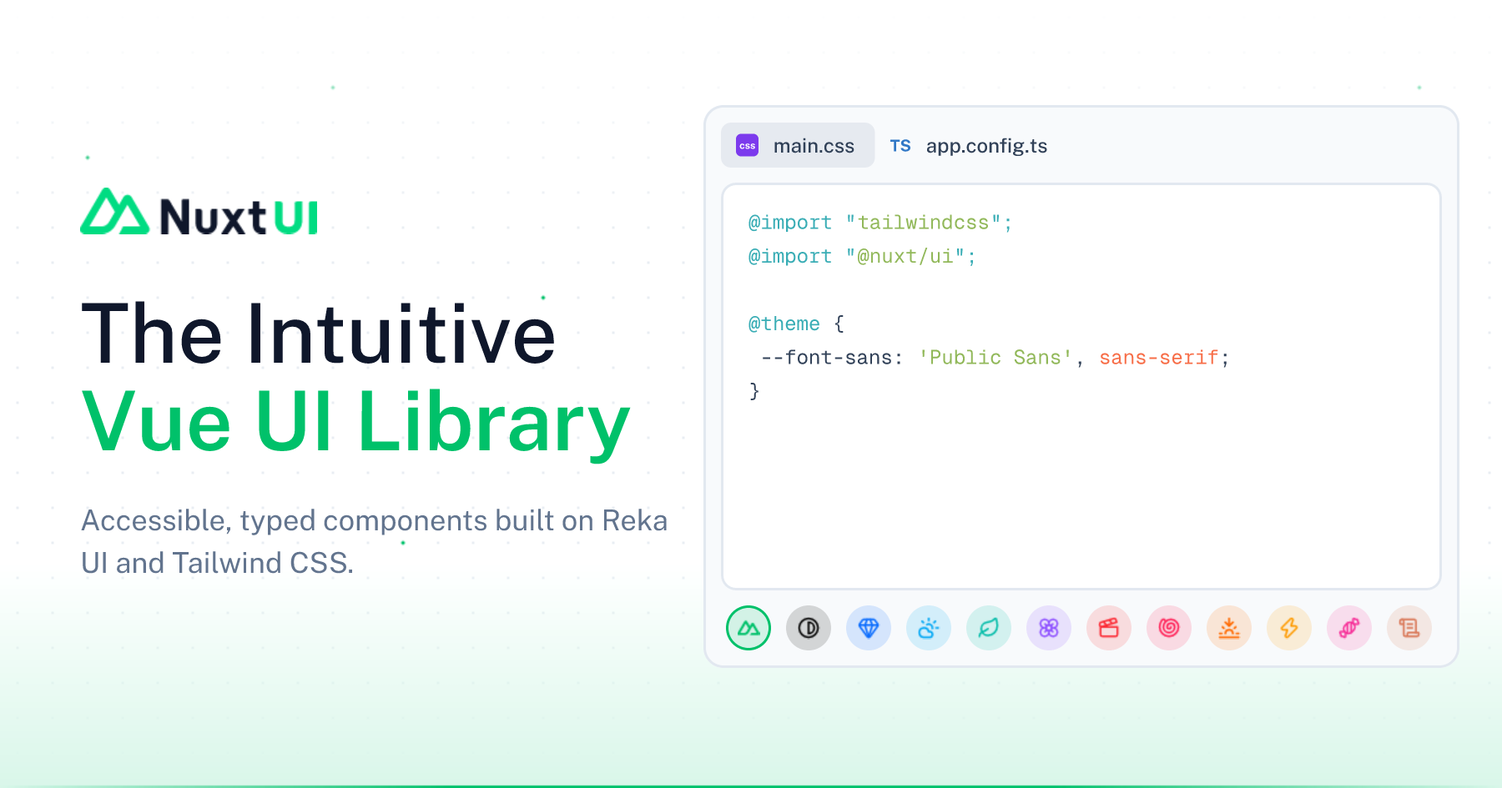
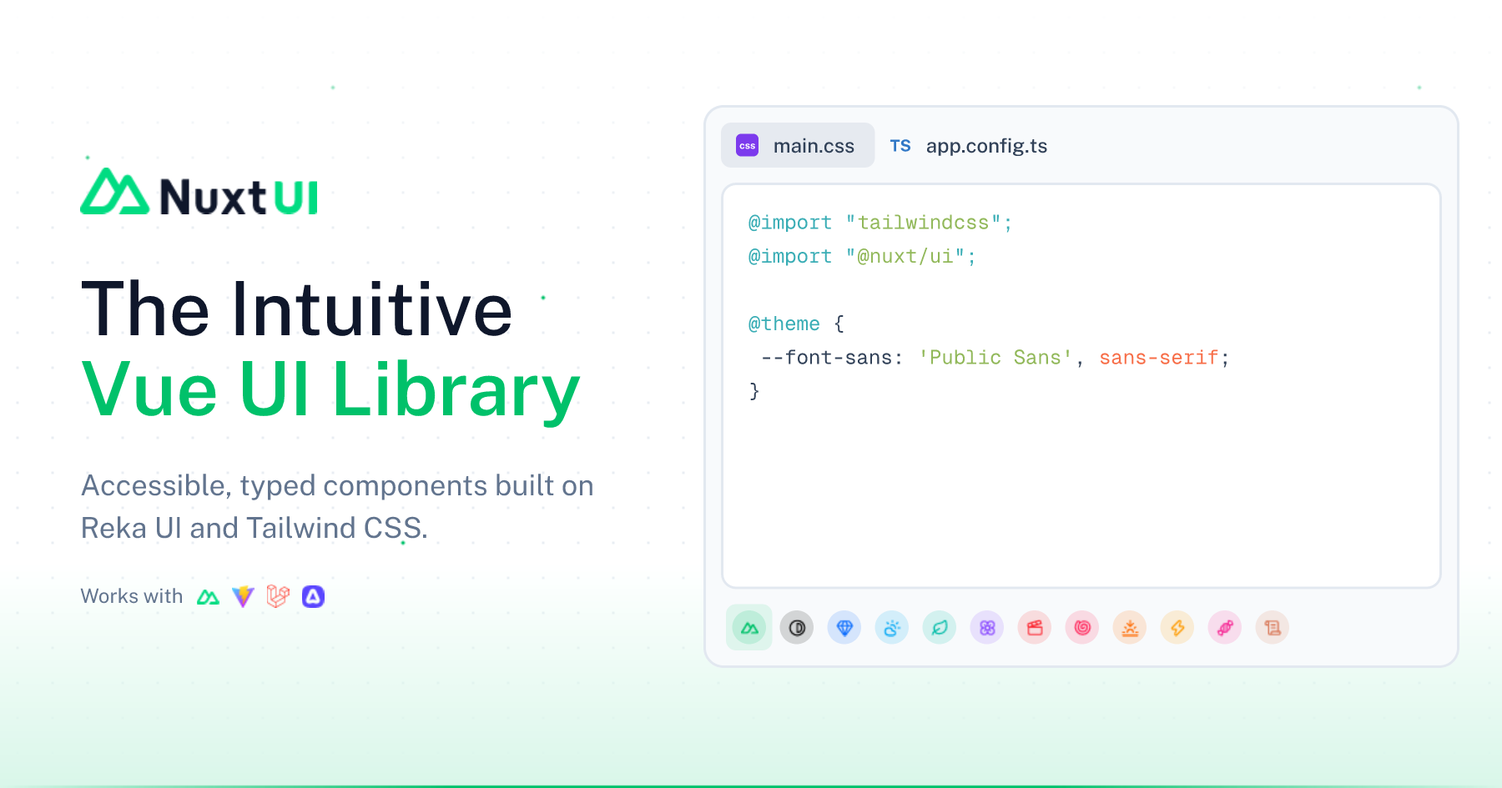
docs(home): add supported frameworks and downloads to og image

Changed region(s): [[0.0311, 0.3376, 0.4667, 0.7672], [0.4667, 0.7672, 0.9644, 0.8286], [0.0311, 0.2148, 0.2178, 0.3069]]

diff --git a/docs/app/components/og-image/Home.takumi.vue b/docs/app/components/og-image/Home.takumi.vue
@@ -11,6 +11,8 @@ const props = withDefaults(defineProps<{
   lead?: string
   accent?: string
   description?: string
+  /** Monthly npm downloads, already formatted. */
+  downloads?: string
   dark?: boolean
 }>(), {
   dark: false
@@ -28,7 +30,9 @@ const PRESETS = {
   dark: { default: '#00DC82', mono: '#ffffff', cobalt: '#3d8bfd', sky: '#00bcff', mint: '#00d5be', iris: '#a684ff', crimson: '#ff6467', coral: '#ff637e', sunset: '#ff8904', carbon: '#ffb900', bubblegum: '#fb64b6', parchment: '#dd9977' }
 }
 const preset = (id: keyof typeof PRESETS.light) => PRESETS[props.dark ? 'dark' : 'light'][id]
-const pill = (id: keyof typeof PRESETS.light) => ({ backgroundColor: `${preset(id)}26`, borderColor: preset(id) })
+const pill = (id: keyof typeof PRESETS.light) => ({ backgroundColor: `${preset(id)}26` })
+// the applied preset sits in the soft primary square its button gets on the landing
+const active = computed(() => ({ backgroundColor: `${c.value.primary}1a` }))
 </script>
 
 <template>
@@ -72,7 +76,7 @@ const pill = (id: keyof typeof PRESETS.light) => ({ backgroundColor: `${preset(i
       <rect y="628" width="1200" height="2" fill="url(#line)" />
     </svg>
 
-    <div class="absolute left-[64px] top-[150px] w-[470px] flex flex-col">
+    <div class="absolute left-[64px] top-[134px] w-[470px] flex flex-col">
       <svg class="w-[189px] h-[37px]" viewBox="0 0 1020 200" fill="none" xmlns="http://www.w3.org/2000/svg">
         <path d="M377 200C379.16 200 381 198.209 381 196V103C381 103 386 112 395 127L434 194C435.785 197.74 439.744 200 443 200H470V50H443C441.202 50 439 51.4941 439 54V148L421 116L385 55C383.248 51.8912 379.479 50 376 50H350V200H377Z" fill="currentColor" />
         <path d="M726 92H739C742.314 92 745 89.3137 745 86V60H773V92H800V116H773V159C773 169.5 778.057 174 787 174H800V200H783C759.948 200 745 185.071 745 160V116H726V92Z" fill="currentColor" />
@@ -82,13 +86,36 @@ const pill = (id: keyof typeof PRESETS.light) => ({ backgroundColor: `${preset(i
         <path d="M958 60.0001H938C933.524 60.0001 929.926 59.9395 927 63C924.074 65.8905 925 67.5792 925 72V141C925 151.372 923.648 156.899 919 162C914.352 166.931 908.468 169 899 169C889.705 169 882.648 166.931 878 162C873.352 156.899 873 151.372 873 141V72.0001C873 67.5793 872.926 65.8906 870 63.0001C867.074 59.9396 863.476 60.0001 859 60.0001H840V141C840 159.023 845.016 173.458 855 184C865.156 194.542 879.893 200 899 200C918.107 200 932.844 194.542 943 184C953.156 173.458 958 159.023 958 141V60.0001Z" fill="#00DC82" />
         <path fill-rule="evenodd" clip-rule="evenodd" d="M1000 60.0233L1020 60V77L1020 128V156.007L1020 181L1020 189.004C1020 192.938 1019.98 194.429 1017 197.001C1014.02 199.725 1009.56 200 1005 200H986.001V181.006L986 130.012V70.0215C986 66.1576 986.016 64.5494 989 62.023C991.819 59.6358 995.437 60.0233 1000 60.0233Z" fill="#00DC82" />
       </svg>
-      <h1 class="flex flex-col text-[66px] leading-[70px] font-medium mt-11 mb-0">
+      <h1 class="flex flex-col text-[60px] leading-[64px] font-medium mt-11 mb-0">
         <span>{{ lead }}</span>
         <span class="font-semibold" :style="{ color: c.primary }">{{ accent }}</span>
       </h1>
-      <p v-if="description" class="text-[23px] leading-[34px] mt-7 mb-0" :style="{ color: c.muted, lineClamp: 3, textOverflow: 'ellipsis' }">
+      <!-- narrower than the column: the first line ends on "on", so "Reka UI"
+           stays whole on the second -->
+      <p v-if="description" class="w-[430px] text-[23px] leading-[34px] mt-7 mb-0" :style="{ color: c.muted, lineClamp: 3, textOverflow: 'ellipsis' }">
         {{ description }}
       </p>
+      <!-- the hero's caption under its links, scaled with the description:
+           the logos in their own colors since the card has no hover to
+           bring them out, a hairline, then the npm downloads -->
+      <div class="flex flex-row items-center mt-7 text-[16px]" :style="{ color: c.muted, gap: '15px' }">
+        <div class="flex flex-row items-center" style="gap: 10px">
+          <span>Works with</span>
+          <div class="flex flex-row items-center" style="gap: 10px">
+            <svg class="w-[18px] h-[12px]" viewBox="0 0 256 168" xmlns="http://www.w3.org/2000/svg"><path fill="#00dc82" d="M143.618 167.029h95.166c3.023 0 5.992-.771 8.61-2.237a16.96 16.96 0 0 0 6.302-6.115a16.3 16.3 0 0 0 2.304-8.352c0-2.932-.799-5.811-2.312-8.35L189.778 34.6a16.97 16.97 0 0 0-6.301-6.113a17.6 17.6 0 0 0-8.608-2.238c-3.023 0-5.991.772-8.609 2.238a16.96 16.96 0 0 0-6.3 6.113l-16.342 27.473l-31.95-53.724a17 17 0 0 0-6.304-6.112A17.64 17.64 0 0 0 96.754 0c-3.022 0-5.992.772-8.61 2.237a17 17 0 0 0-6.303 6.112L2.31 141.975a16.3 16.3 0 0 0-2.31 8.35c0 2.932.793 5.813 2.304 8.352a16.96 16.96 0 0 0 6.302 6.115a17.6 17.6 0 0 0 8.61 2.237h59.737c23.669 0 41.123-10.084 53.134-29.758l29.159-48.983l15.618-26.215l46.874 78.742h-62.492zm-67.64-26.24l-41.688-.01L96.782 35.796l31.181 52.492l-20.877 35.084c-7.976 12.765-17.037 17.416-31.107 17.416" /></svg>
+            <svg class="w-[18px] h-[18px]" viewBox="0 0 256 257" xmlns="http://www.w3.org/2000/svg"><defs><linearGradient id="vite-a" x1="-.828%" x2="57.636%" y1="7.652%" y2="78.411%"><stop offset="0%" stop-color="#41D1FF" /><stop offset="100%" stop-color="#BD34FE" /></linearGradient><linearGradient id="vite-b" x1="43.376%" x2="50.316%" y1="2.242%" y2="89.03%"><stop offset="0%" stop-color="#FFEA83" /><stop offset="8.333%" stop-color="#FFDD35" /><stop offset="100%" stop-color="#FFA800" /></linearGradient></defs><path fill="url(#vite-a)" d="M255.153 37.938L134.897 252.976c-2.483 4.44-8.862 4.466-11.382.048L.875 37.958c-2.746-4.814 1.371-10.646 6.827-9.67l120.385 21.517a6.5 6.5 0 0 0 2.322-.004l117.867-21.483c5.438-.991 9.574 4.796 6.877 9.62" /><path fill="url(#vite-b)" d="M185.432.063L96.44 17.501a3.27 3.27 0 0 0-2.634 3.014l-5.474 92.456a3.268 3.268 0 0 0 3.997 3.378l24.777-5.718c2.318-.535 4.413 1.507 3.936 3.838l-7.361 36.047c-.495 2.426 1.782 4.5 4.151 3.78l15.304-4.649c2.372-.72 4.652 1.36 4.15 3.788l-11.698 56.621c-.732 3.542 3.979 5.473 5.943 2.437l1.313-2.028l72.516-144.72c1.215-2.423-.88-5.186-3.54-4.672l-25.505 4.922c-2.396.462-4.435-1.77-3.759-4.114l16.646-57.705c.677-2.35-1.37-4.583-3.769-4.113" /></svg>
+            <svg class="w-[18px] h-[19px]" viewBox="0 0 256 264" xmlns="http://www.w3.org/2000/svg"><path fill="#ff2d20" d="M255.856 59.62c.095.351.144.713.144 1.077v56.568c0 1.478-.79 2.843-2.073 3.578L206.45 148.18v54.18a4.14 4.14 0 0 1-2.062 3.579l-99.108 57.053c-.227.128-.474.21-.722.299c-.093.03-.18.087-.278.113a4.15 4.15 0 0 1-2.114 0c-.114-.03-.217-.093-.325-.134c-.227-.083-.464-.155-.68-.278L2.073 205.938A4.13 4.13 0 0 1 0 202.36V32.656c0-.372.052-.733.144-1.083c.031-.119.103-.227.145-.346c.077-.216.15-.438.263-.639c.077-.134.19-.242.283-.366c.119-.165.227-.335.366-.48c.119-.118.274-.206.408-.309c.15-.124.283-.258.453-.356h.005L51.613.551a4.14 4.14 0 0 1 4.125 0l49.546 28.526h.01c.165.104.305.232.454.351c.134.103.284.196.402.31c.145.149.248.32.371.484c.088.124.207.232.279.366c.118.206.185.423.268.64c.041.118.113.226.144.35c.095.351.144.714.145 1.078V138.65l41.286-23.773V60.692c0-.36.052-.727.145-1.072c.036-.124.103-.232.144-.35c.083-.217.155-.44.268-.64c.077-.134.19-.242.279-.366c.123-.165.226-.335.37-.48c.12-.118.269-.206.403-.309c.155-.124.289-.258.454-.356h.005l49.551-28.526a4.13 4.13 0 0 1 4.125 0l49.546 28.526c.175.103.309.232.464.35c.128.104.278.197.397.31c.144.15.247.32.37.485c.094.124.207.232.28.366c.118.2.185.423.267.64c.047.118.114.226.145.35m-8.115 55.258v-47.04l-17.339 9.981l-23.953 13.792v47.04l41.297-23.773zm-49.546 85.095V152.9l-23.562 13.457l-67.281 38.4v47.514zM8.259 39.796v160.177l90.833 52.294v-47.505L51.64 177.906l-.015-.01l-.02-.01c-.16-.093-.295-.227-.444-.34c-.13-.104-.279-.186-.392-.3l-.01-.015c-.134-.129-.227-.289-.34-.433c-.104-.14-.227-.258-.31-.402l-.005-.016c-.093-.154-.15-.34-.217-.515c-.067-.155-.154-.3-.196-.464v-.005c-.051-.196-.061-.403-.082-.604c-.02-.154-.062-.309-.062-.464V63.57L25.598 49.772l-17.339-9.97zM53.681 8.893L12.399 32.656l41.272 23.762L94.947 32.65L53.671 8.893zm21.468 148.298l23.948-13.786V39.796L81.76 49.778L57.805 63.569v103.608zM202.324 36.935l-41.276 23.762l41.276 23.763l41.271-23.768zm-4.13 54.676l-23.953-13.792l-17.338-9.981v47.04l23.948 13.787l17.344 9.986zm-94.977 106.006l60.543-34.564l30.264-17.272l-41.246-23.747l-47.489 27.34l-43.282 24.918z" /></svg>
+            <svg class="w-[18px] h-[18px]" viewBox="0 0 256 256" xmlns="http://www.w3.org/2000/svg"><path fill="#5a46ff" d="M128 256C24.766 256 0 231.234 0 128S24.766 0 128 0s128 24.766 128 128s-24.766 128-128 128M91.764 63.348l-40.147 91.243c-1.825 4.432-3.389 10.166-3.389 15.12c0 22.68 15.902 38.583 38.582 38.583c7.433 0 13.605-1.953 19.88-3.938l.005-.003c6.489-2.053 13.089-4.141 21.305-4.141c8.312 0 14.754 2.07 21.118 4.114l.002.001c6.21 1.995 12.345 3.967 20.069 3.967c22.68 0 38.583-15.903 38.583-38.583c0-4.954-1.565-10.688-3.389-15.12l-40.146-91.243c-6.78-15.38-19.813-23.723-36.237-23.723s-29.458 8.342-36.236 23.723m-3.39 105.581L128 79.251l39.104 89.678c-11.21-5.474-25.287-8.081-39.104-8.081c-14.338 0-27.894 2.607-39.625 8.081" /></svg>
+          </div>
+        </div>
+        <template v-if="downloads">
+          <div class="w-[1px] h-[16px]" :style="{ backgroundColor: c.border }" />
+          <div class="flex flex-row items-center" style="gap: 8px">
+            <svg class="w-[18px] h-[18px]" viewBox="0 0 256 256" xmlns="http://www.w3.org/2000/svg"><path fill="#c12127" d="M0 256V0h256v256z" /><path fill="#fff" d="M48 48h160v160h-32V80h-48v128H48z" /></svg>
+            <span>{{ downloads }} monthly downloads</span>
+          </div>
+        </template>
+      </div>
     </div>
 
     <!-- takumi has no preflight reset: every border side is set explicitly -->
@@ -123,77 +150,101 @@ const pill = (id: keyof typeof PRESETS.light) => ({ backgroundColor: `${preset(i
           <span>}</span>
         </div>
       </div>
-      <div class="flex flex-row items-center mt-3 px-1" style="gap: 12px">
-        <div class="flex items-center justify-center w-[36px] h-[36px] rounded-full" :class="{ 'border-2 border-solid': true }" :style="pill('default')">
-          <svg class="w-[18px] h-[18px]" viewBox="0 0 24 24" xmlns="http://www.w3.org/2000/svg" :style="{ color: preset('default') }"><path fill="currentColor" d="M13.464 19.83h8.922c.283 0 .562-.073.807-.21a1.6 1.6 0 0 0 .591-.574a1.53 1.53 0 0 0 .216-.783a1.53 1.53 0 0 0-.217-.782L17.792 7.414a1.6 1.6 0 0 0-.591-.573a1.65 1.65 0 0 0-.807-.21c-.283 0-.562.073-.807.21a1.6 1.6 0 0 0-.59.573L13.463 9.99L10.47 4.953a1.6 1.6 0 0 0-.591-.573a1.65 1.65 0 0 0-.807-.21c-.284 0-.562.073-.807.21a1.6 1.6 0 0 0-.591.573L.216 17.481a1.53 1.53 0 0 0-.217.782c0 .275.074.545.216.783a1.6 1.6 0 0 0 .59.574c.246.137.525.21.808.21h5.6c2.22 0 3.856-.946 4.982-2.79l2.733-4.593l1.464-2.457l4.395 7.382h-5.859Zm-6.341-2.46l-3.908-.002l5.858-9.842l2.923 4.921l-1.957 3.29c-.748 1.196-1.597 1.632-2.916 1.632" /></svg>
+      <div class="flex flex-row items-center mt-3 px-1" style="gap: 1px">
+        <div class="flex p-[5px] rounded-lg" :style="active">
+          <div class="flex items-center justify-center w-[27px] h-[27px] rounded-full" :style="pill('default')">
+            <svg class="w-[14px] h-[14px]" viewBox="0 0 24 24" xmlns="http://www.w3.org/2000/svg" :style="{ color: preset('default') }"><path fill="currentColor" d="M13.464 19.83h8.922c.283 0 .562-.073.807-.21a1.6 1.6 0 0 0 .591-.574a1.53 1.53 0 0 0 .216-.783a1.53 1.53 0 0 0-.217-.782L17.792 7.414a1.6 1.6 0 0 0-.591-.573a1.65 1.65 0 0 0-.807-.21c-.283 0-.562.073-.807.21a1.6 1.6 0 0 0-.59.573L13.463 9.99L10.47 4.953a1.6 1.6 0 0 0-.591-.573a1.65 1.65 0 0 0-.807-.21c-.284 0-.562.073-.807.21a1.6 1.6 0 0 0-.591.573L.216 17.481a1.53 1.53 0 0 0-.217.782c0 .275.074.545.216.783a1.6 1.6 0 0 0 .59.574c.246.137.525.21.808.21h5.6c2.22 0 3.856-.946 4.982-2.79l2.733-4.593l1.464-2.457l4.395 7.382h-5.859Zm-6.341-2.46l-3.908-.002l5.858-9.842l2.923 4.921l-1.957 3.29c-.748 1.196-1.597 1.632-2.916 1.632" /></svg>
+          </div>
         </div>
-        <div class="flex items-center justify-center w-[36px] h-[36px] rounded-full" :class="{ 'border-2 border-solid': false }" :style="pill('mono')">
-          <svg class="w-[18px] h-[18px]" viewBox="0 0 24 24" xmlns="http://www.w3.org/2000/svg" :style="{ color: preset('mono') }"><g fill="none" stroke="currentColor" stroke-linecap="round" stroke-linejoin="round" stroke-width="2"><circle cx="12" cy="12" r="10" /><path d="M12 18a6 6 0 0 0 0-12z" /></g></svg>
+        <div class="flex p-[5px] rounded-lg">
+          <div class="flex items-center justify-center w-[27px] h-[27px] rounded-full" :style="pill('mono')">
+            <svg class="w-[14px] h-[14px]" viewBox="0 0 24 24" xmlns="http://www.w3.org/2000/svg" :style="{ color: preset('mono') }"><g fill="none" stroke="currentColor" stroke-linecap="round" stroke-linejoin="round" stroke-width="2"><circle cx="12" cy="12" r="10" /><path d="M12 18a6 6 0 0 0 0-12z" /></g></svg>
+          </div>
         </div>
-        <div class="flex items-center justify-center w-[36px] h-[36px] rounded-full" :class="{ 'border-2 border-solid': false }" :style="pill('cobalt')">
-          <svg class="w-[18px] h-[18px]" viewBox="0 0 24 24" xmlns="http://www.w3.org/2000/svg" :style="{ color: preset('cobalt') }"><g fill="none" stroke="currentColor" stroke-linecap="round" stroke-linejoin="round" stroke-width="2"><path d="M10.5 3L8 9l4 13l4-13l-2.5-6" /><path d="M17 3a2 2 0 0 1 1.6.8l3 4a2 2 0 0 1 .013 2.382l-7.99 10.986a2 2 0 0 1-3.247 0l-7.99-10.986A2 2 0 0 1 2.4 7.8l2.998-3.997A2 2 0 0 1 7 3zM2 9h20" /></g></svg>
+        <div class="flex p-[5px] rounded-lg">
+          <div class="flex items-center justify-center w-[27px] h-[27px] rounded-full" :style="pill('cobalt')">
+            <svg class="w-[14px] h-[14px]" viewBox="0 0 24 24" xmlns="http://www.w3.org/2000/svg" :style="{ color: preset('cobalt') }"><g fill="none" stroke="currentColor" stroke-linecap="round" stroke-linejoin="round" stroke-width="2"><path d="M10.5 3L8 9l4 13l4-13l-2.5-6" /><path d="M17 3a2 2 0 0 1 1.6.8l3 4a2 2 0 0 1 .013 2.382l-7.99 10.986a2 2 0 0 1-3.247 0l-7.99-10.986A2 2 0 0 1 2.4 7.8l2.998-3.997A2 2 0 0 1 7 3zM2 9h20" /></g></svg>
+          </div>
         </div>
-        <div class="flex items-center justify-center w-[36px] h-[36px] rounded-full" :class="{ 'border-2 border-solid': false }" :style="pill('sky')">
-          <svg class="w-[18px] h-[18px]" viewBox="0 0 24 24" xmlns="http://www.w3.org/2000/svg" :style="{ color: preset('sky') }"><path
-            fill="none"
-            stroke="currentColor"
-            stroke-linecap="round"
-            stroke-linejoin="round"
-            stroke-width="2"
-            d="M12 2v2m-7.07.93l1.41 1.41M20 12h2m-2.93-7.07l-1.41 1.41m-1.713 6.31a4 4 0 0 0-5.925-4.128M13 22H7a5 5 0 1 1 4.9-6H13a3 3 0 0 1 0 6"
-          /></svg>
+        <div class="flex p-[5px] rounded-lg">
+          <div class="flex items-center justify-center w-[27px] h-[27px] rounded-full" :style="pill('sky')">
+            <svg class="w-[14px] h-[14px]" viewBox="0 0 24 24" xmlns="http://www.w3.org/2000/svg" :style="{ color: preset('sky') }"><path
+              fill="none"
+              stroke="currentColor"
+              stroke-linecap="round"
+              stroke-linejoin="round"
+              stroke-width="2"
+              d="M12 2v2m-7.07.93l1.41 1.41M20 12h2m-2.93-7.07l-1.41 1.41m-1.713 6.31a4 4 0 0 0-5.925-4.128M13 22H7a5 5 0 1 1 4.9-6H13a3 3 0 0 1 0 6"
+            /></svg>
+          </div>
         </div>
-        <div class="flex items-center justify-center w-[36px] h-[36px] rounded-full" :class="{ 'border-2 border-solid': false }" :style="pill('mint')">
-          <svg class="w-[18px] h-[18px]" viewBox="0 0 24 24" xmlns="http://www.w3.org/2000/svg" :style="{ color: preset('mint') }"><g fill="none" stroke="currentColor" stroke-linecap="round" stroke-linejoin="round" stroke-width="2"><path d="M11 20a10 10 0 0 0 10-10a25.9 25.9 0 0 0-1.04-7.281a1 1 0 0 0-1.755-.325C15.833 5.5 13 5.5 9.8 6.1A7 7 0 0 0 11 20" /><path d="M2 21a5 5 0 0 1 2.911-4.544C7.613 15.212 8.351 15.24 11 13" /></g></svg>
+        <div class="flex p-[5px] rounded-lg">
+          <div class="flex items-center justify-center w-[27px] h-[27px] rounded-full" :style="pill('mint')">
+            <svg class="w-[14px] h-[14px]" viewBox="0 0 24 24" xmlns="http://www.w3.org/2000/svg" :style="{ color: preset('mint') }"><g fill="none" stroke="currentColor" stroke-linecap="round" stroke-linejoin="round" stroke-width="2"><path d="M11 20a10 10 0 0 0 10-10a25.9 25.9 0 0 0-1.04-7.281a1 1 0 0 0-1.755-.325C15.833 5.5 13 5.5 9.8 6.1A7 7 0 0 0 11 20" /><path d="M2 21a5 5 0 0 1 2.911-4.544C7.613 15.212 8.351 15.24 11 13" /></g></svg>
+          </div>
         </div>
-        <div class="flex items-center justify-center w-[36px] h-[36px] rounded-full" :class="{ 'border-2 border-solid': false }" :style="pill('iris')">
-          <svg class="w-[18px] h-[18px]" viewBox="0 0 24 24" xmlns="http://www.w3.org/2000/svg" :style="{ color: preset('iris') }"><g fill="none" stroke="currentColor" stroke-linecap="round" stroke-linejoin="round" stroke-width="2"><circle cx="12" cy="12" r="3" /><path d="M12 16.5A4.5 4.5 0 1 1 7.5 12A4.5 4.5 0 1 1 12 7.5a4.5 4.5 0 1 1 4.5 4.5a4.5 4.5 0 1 1-4.5 4.5m0-9V9m-4.5 3H9m7.5 0H15m-3 4.5V15M8 8l1.88 1.88m4.24 0L16 8m-8 8l1.88-1.88m4.24 0L16 16" /></g></svg>
+        <div class="flex p-[5px] rounded-lg">
+          <div class="flex items-center justify-center w-[27px] h-[27px] rounded-full" :style="pill('iris')">
+            <svg class="w-[14px] h-[14px]" viewBox="0 0 24 24" xmlns="http://www.w3.org/2000/svg" :style="{ color: preset('iris') }"><g fill="none" stroke="currentColor" stroke-linecap="round" stroke-linejoin="round" stroke-width="2"><circle cx="12" cy="12" r="3" /><path d="M12 16.5A4.5 4.5 0 1 1 7.5 12A4.5 4.5 0 1 1 12 7.5a4.5 4.5 0 1 1 4.5 4.5a4.5 4.5 0 1 1-4.5 4.5m0-9V9m-4.5 3H9m7.5 0H15m-3 4.5V15M8 8l1.88 1.88m4.24 0L16 8m-8 8l1.88-1.88m4.24 0L16 16" /></g></svg>
+          </div>
         </div>
-        <div class="flex items-center justify-center w-[36px] h-[36px] rounded-full" :class="{ 'border-2 border-solid': false }" :style="pill('crimson')">
-          <svg class="w-[18px] h-[18px]" viewBox="0 0 24 24" xmlns="http://www.w3.org/2000/svg" :style="{ color: preset('crimson') }"><path
-            fill="none"
-            stroke="currentColor"
-            stroke-linecap="round"
-            stroke-linejoin="round"
-            stroke-width="2"
-            d="m12.296 3.464l3.02 3.956M20.2 6L3 11l-.9-2.4c-.3-1.1.3-2.2 1.3-2.5l13.5-4c1.1-.3 2.2.3 2.5 1.3zM3 11h18v8a2 2 0 0 1-2 2H5a2 2 0 0 1-2-2zm3.18-5.724l3.1 3.899"
-          /></svg>
+        <div class="flex p-[5px] rounded-lg">
+          <div class="flex items-center justify-center w-[27px] h-[27px] rounded-full" :style="pill('crimson')">
+            <svg class="w-[14px] h-[14px]" viewBox="0 0 24 24" xmlns="http://www.w3.org/2000/svg" :style="{ color: preset('crimson') }"><path
+              fill="none"
+              stroke="currentColor"
+              stroke-linecap="round"
+              stroke-linejoin="round"
+              stroke-width="2"
+              d="m12.296 3.464l3.02 3.956M20.2 6L3 11l-.9-2.4c-.3-1.1.3-2.2 1.3-2.5l13.5-4c1.1-.3 2.2.3 2.5 1.3zM3 11h18v8a2 2 0 0 1-2 2H5a2 2 0 0 1-2-2zm3.18-5.724l3.1 3.899"
+            /></svg>
+          </div>
         </div>
-        <div class="flex items-center justify-center w-[36px] h-[36px] rounded-full" :class="{ 'border-2 border-solid': false }" :style="pill('coral')">
-          <svg class="w-[18px] h-[18px]" viewBox="0 0 24 24" xmlns="http://www.w3.org/2000/svg" :style="{ color: preset('coral') }"><path
-            fill="none"
-            stroke="currentColor"
-            stroke-linecap="round"
-            stroke-linejoin="round"
-            stroke-width="2"
-            d="M14 11a2 2 0 1 1-4 0a4 4 0 0 1 8 0a6 6 0 0 1-12 0a8 8 0 0 1 16 0a10 10 0 1 1-20 0a11.93 11.93 0 0 1 2.42-7.22a2 2 0 1 1 3.16 2.44"
-          /></svg>
+        <div class="flex p-[5px] rounded-lg">
+          <div class="flex items-center justify-center w-[27px] h-[27px] rounded-full" :style="pill('coral')">
+            <svg class="w-[14px] h-[14px]" viewBox="0 0 24 24" xmlns="http://www.w3.org/2000/svg" :style="{ color: preset('coral') }"><path
+              fill="none"
+              stroke="currentColor"
+              stroke-linecap="round"
+              stroke-linejoin="round"
+              stroke-width="2"
+              d="M14 11a2 2 0 1 1-4 0a4 4 0 0 1 8 0a6 6 0 0 1-12 0a8 8 0 0 1 16 0a10 10 0 1 1-20 0a11.93 11.93 0 0 1 2.42-7.22a2 2 0 1 1 3.16 2.44"
+            /></svg>
+          </div>
         </div>
-        <div class="flex items-center justify-center w-[36px] h-[36px] rounded-full" :class="{ 'border-2 border-solid': false }" :style="pill('sunset')">
-          <svg class="w-[18px] h-[18px]" viewBox="0 0 24 24" xmlns="http://www.w3.org/2000/svg" :style="{ color: preset('sunset') }"><path
-            fill="none"
-            stroke="currentColor"
-            stroke-linecap="round"
-            stroke-linejoin="round"
-            stroke-width="2"
-            d="M12 10V2m-7.07 8.93l1.41 1.41M2 18h2m16 0h2m-2.93-7.07l-1.41 1.41M22 22H2M16 6l-4 4l-4-4m8 12a4 4 0 0 0-8 0"
-          /></svg>
+        <div class="flex p-[5px] rounded-lg">
+          <div class="flex items-center justify-center w-[27px] h-[27px] rounded-full" :style="pill('sunset')">
+            <svg class="w-[14px] h-[14px]" viewBox="0 0 24 24" xmlns="http://www.w3.org/2000/svg" :style="{ color: preset('sunset') }"><path
+              fill="none"
+              stroke="currentColor"
+              stroke-linecap="round"
+              stroke-linejoin="round"
+              stroke-width="2"
+              d="M12 10V2m-7.07 8.93l1.41 1.41M2 18h2m16 0h2m-2.93-7.07l-1.41 1.41M22 22H2M16 6l-4 4l-4-4m8 12a4 4 0 0 0-8 0"
+            /></svg>
+          </div>
         </div>
-        <div class="flex items-center justify-center w-[36px] h-[36px] rounded-full" :class="{ 'border-2 border-solid': false }" :style="pill('carbon')">
-          <svg class="w-[18px] h-[18px]" viewBox="0 0 24 24" xmlns="http://www.w3.org/2000/svg" :style="{ color: preset('carbon') }"><path
-            fill="none"
-            stroke="currentColor"
-            stroke-linecap="round"
-            stroke-linejoin="round"
-            stroke-width="2"
-            d="M15.914 4a1.5 1.5 0 0 0-2.474-1.561l-9 9A1.5 1.5 0 0 0 5.5 14h4.002a.5.5 0 0 1 .471.666L8.086 20a1.5 1.5 0 0 0 2.475 1.56l9-9A1.5 1.5 0 0 0 18.5 10h-3.997a.5.5 0 0 1-.472-.667z"
-          /></svg>
+        <div class="flex p-[5px] rounded-lg">
+          <div class="flex items-center justify-center w-[27px] h-[27px] rounded-full" :style="pill('carbon')">
+            <svg class="w-[14px] h-[14px]" viewBox="0 0 24 24" xmlns="http://www.w3.org/2000/svg" :style="{ color: preset('carbon') }"><path
+              fill="none"
+              stroke="currentColor"
+              stroke-linecap="round"
+              stroke-linejoin="round"
+              stroke-width="2"
+              d="M15.914 4a1.5 1.5 0 0 0-2.474-1.561l-9 9A1.5 1.5 0 0 0 5.5 14h4.002a.5.5 0 0 1 .471.666L8.086 20a1.5 1.5 0 0 0 2.475 1.56l9-9A1.5 1.5 0 0 0 18.5 10h-3.997a.5.5 0 0 1-.472-.667z"
+            /></svg>
+          </div>
         </div>
-        <div class="flex items-center justify-center w-[36px] h-[36px] rounded-full" :class="{ 'border-2 border-solid': false }" :style="pill('bubblegum')">
-          <svg class="w-[18px] h-[18px]" viewBox="0 0 24 24" xmlns="http://www.w3.org/2000/svg" :style="{ color: preset('bubblegum') }"><g fill="none" stroke="currentColor" stroke-linecap="round" stroke-linejoin="round" stroke-width="2"><path d="M10 7v10.9m4-11.8V17m2-10V3a1 1 0 0 1 1.707-.707a2.5 2.5 0 0 0 2.152.717a1 1 0 0 1 1.131 1.131a2.5 2.5 0 0 0 .717 2.152A1 1 0 0 1 21 8h-4" /><path d="M16.536 7.465a5 5 0 0 0-7.072 0l-2 2a5 5 0 0 0 0 7.07a5 5 0 0 0 7.072 0l2-2a5 5 0 0 0 0-7.07" /><path d="M8 17v4a1 1 0 0 1-1.707.707a2.5 2.5 0 0 0-2.152-.717a1 1 0 0 1-1.131-1.131a2.5 2.5 0 0 0-.717-2.152A1 1 0 0 1 3 16h4" /></g></svg>
+        <div class="flex p-[5px] rounded-lg">
+          <div class="flex items-center justify-center w-[27px] h-[27px] rounded-full" :style="pill('bubblegum')">
+            <svg class="w-[14px] h-[14px]" viewBox="0 0 24 24" xmlns="http://www.w3.org/2000/svg" :style="{ color: preset('bubblegum') }"><g fill="none" stroke="currentColor" stroke-linecap="round" stroke-linejoin="round" stroke-width="2"><path d="M10 7v10.9m4-11.8V17m2-10V3a1 1 0 0 1 1.707-.707a2.5 2.5 0 0 0 2.152.717a1 1 0 0 1 1.131 1.131a2.5 2.5 0 0 0 .717 2.152A1 1 0 0 1 21 8h-4" /><path d="M16.536 7.465a5 5 0 0 0-7.072 0l-2 2a5 5 0 0 0 0 7.07a5 5 0 0 0 7.072 0l2-2a5 5 0 0 0 0-7.07" /><path d="M8 17v4a1 1 0 0 1-1.707.707a2.5 2.5 0 0 0-2.152-.717a1 1 0 0 1-1.131-1.131a2.5 2.5 0 0 0-.717-2.152A1 1 0 0 1 3 16h4" /></g></svg>
+          </div>
         </div>
-        <div class="flex items-center justify-center w-[36px] h-[36px] rounded-full" :class="{ 'border-2 border-solid': false }" :style="pill('parchment')">
-          <svg class="w-[18px] h-[18px]" viewBox="0 0 24 24" xmlns="http://www.w3.org/2000/svg" :style="{ color: preset('parchment') }"><g fill="none" stroke="currentColor" stroke-linecap="round" stroke-linejoin="round" stroke-width="2"><path d="M15 12h-5m5-4h-5m9 9V5a2 2 0 0 0-2-2H4" /><path d="M8 21h12a2 2 0 0 0 2-2v-1a1 1 0 0 0-1-1H11a1 1 0 0 0-1 1v1a2 2 0 1 1-4 0V5a2 2 0 1 0-4 0v2a1 1 0 0 0 1 1h3" /></g></svg>
+        <div class="flex p-[5px] rounded-lg">
+          <div class="flex items-center justify-center w-[27px] h-[27px] rounded-full" :style="pill('parchment')">
+            <svg class="w-[14px] h-[14px]" viewBox="0 0 24 24" xmlns="http://www.w3.org/2000/svg" :style="{ color: preset('parchment') }"><g fill="none" stroke="currentColor" stroke-linecap="round" stroke-linejoin="round" stroke-width="2"><path d="M15 12h-5m5-4h-5m9 9V5a2 2 0 0 0-2-2H4" /><path d="M8 21h12a2 2 0 0 0 2-2v-1a1 1 0 0 0-1-1H11a1 1 0 0 0-1 1v1a2 2 0 1 1-4 0V5a2 2 0 1 0-4 0v2a1 1 0 0 0 1 1h3" /></g></svg>
+          </div>
         </div>
       </div>
     </div>

diff --git a/docs/app/pages/index.vue b/docs/app/pages/index.vue
@@ -39,7 +39,8 @@ if (import.meta.server) {
     lead: page.value.hero?.lead,
     accent: page.value.hero?.accent,
     // the card has room for the first sentence, the rest is the hero's
-    description: page.value.hero?.description?.split('. ')[0]?.concat('.')
+    description: page.value.hero?.description?.split('. ')[0]?.concat('.'),
+    downloads: downloads.value
   })
 
   useSchemaOrg([
@@ -80,7 +81,7 @@ if (import.meta.server) {
           <template v-if="downloads">
             <USeparator orientation="vertical" class="h-3" />
 
-            <ULink to="https://npm.chart.dev/@nuxt/ui" target="_blank" class="group inline-flex items-center gap-1.5 text-muted hover:text-default transition-colors">
+            <ULink to="https://npmx.dev/package-stats/@nuxt/ui/v/latest?granularity=monthly#trends" target="_blank" class="group inline-flex items-center gap-1.5 text-muted hover:text-default transition-colors">
               <UIcon name="i-logos-npm-icon" class="size-3.5 shrink-0 grayscale opacity-70 group-hover:grayscale-0 group-hover:opacity-100 transition" />
               {{ downloads }} monthly downloads
             </ULink>
